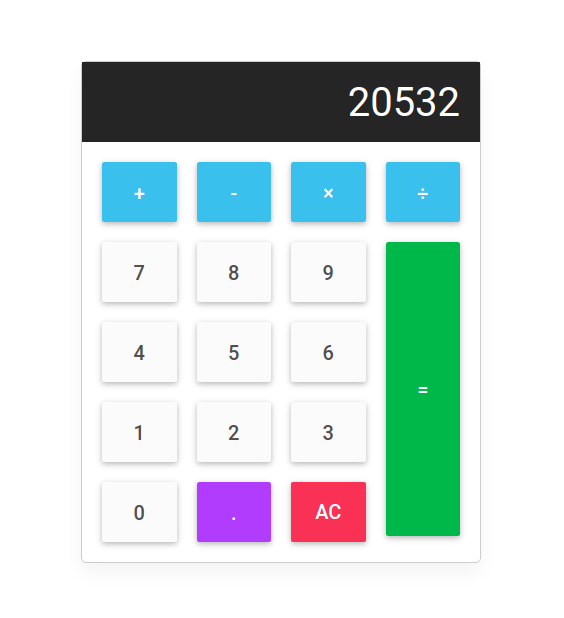
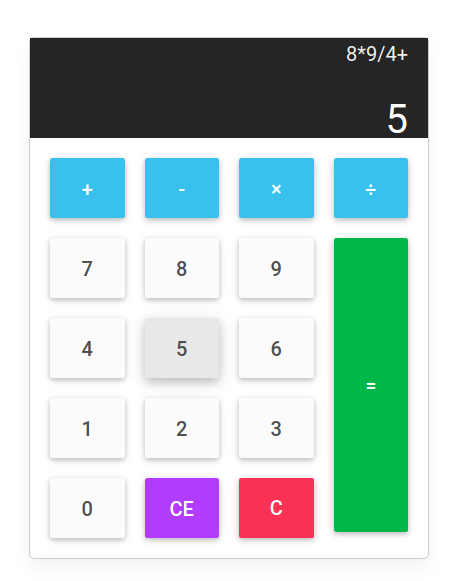
Enhancing Calculator

diff --git a/15- Material Calculator.html b/15- Material Calculator.html
@@ -1,26 +1,18 @@
 <!DOCTYPE html>
 <html lang="en">
+
 <head>
   <title>Material Calculator</title>
   <meta charset="utf-8">
   <meta name="viewport" content="width=device-width, initial-scale=1">
-  <link
-    href="https://cdnjs.cloudflare.com/ajax/libs/font-awesome/5.15.1/css/all.min.css"
-    rel="stylesheet"
-  />
-  <link
-    href="https://fonts.googleapis.com/css?family=Roboto:300,400,500,700&display=swap"
-    rel="stylesheet"
-  />
+  <link href="https://cdnjs.cloudflare.com/ajax/libs/font-awesome/5.15.1/css/all.min.css" rel="stylesheet" />
+  <link href="https://fonts.googleapis.com/css?family=Roboto:300,400,500,700&display=swap" rel="stylesheet" />
   <!-- Using Material Design Bootstrap -->
   <!-- Instead of regular bootstrap -->
 
-  <link
-    href="https://cdnjs.cloudflare.com/ajax/libs/mdb-ui-kit/3.6.0/mdb.min.css"
-    rel="stylesheet"
-  />
+  <link href="https://cdnjs.cloudflare.com/ajax/libs/mdb-ui-kit/3.6.0/mdb.min.css" rel="stylesheet" />
   <style>
- html {
+    html {
       font-size: 62.5%;
       box-sizing: border-box;
     }
@@ -43,9 +35,21 @@
       width: 400px;
     }
 
-    .calculator-screen {
+    .calculator-history {
       width: 100%;
-      height: 80px;
+      height: 50px;
+      border: none;
+      background-color: #252525;
+      color: rgb(240, 240, 240);
+      text-align: right;
+      padding-right: 20px;
+      padding-left: 10px;
+      font-size: 2rem;
+    }
+
+    .calculator-result {
+      width: 100%;
+      height: 50px;
       border: none;
       background-color: #252525;
       color: #fff;
@@ -57,7 +61,7 @@
 
     button {
       height: 60px;
-      font-size: 2rem!important;
+      font-size: 2rem !important;
     }
 
     .equal-sign {
@@ -73,150 +77,151 @@
     }
   </style>
 </head>
+
 <body>
   <div class="calculator card">
 
-    <input type="text" class="calculator-screen z-depth-1" value="" disabled />
+    <div class="calculator-history z-depth-1">8x8</div>
+    <div class="calculator-result z-depth-1">64</div>
 
     <div class="calculator-keys">
 
-      <button type="button" class="operator btn btn-info" value="+">+</button>
-      <button type="button" class="operator btn btn-info" value="-">-</button>
-      <button type="button" class="operator btn btn-info" value="*">&times;</button>
-      <button type="button" class="operator btn btn-info" value="/">&divide;</button>
+      <button type="button" id="+" class="operator btn btn-info">+</button>
+      <button type="button" id="-" class="operator btn btn-info">-</button>
+      <button type="button" id="*" class="operator btn btn-info">&times;</button>
+      <button type="button" id="/" class="operator btn btn-info">&divide;</button>
 
-      <button type="button" value="7" class="btn btn-light waves-effect">7</button>
-      <button type="button" value="8" class="btn btn-light waves-effect">8</button>
-      <button type="button" value="9" class="btn btn-light waves-effect">9</button>
-
-
-      <button type="button" value="4" class="btn btn-light waves-effect">4</button>
-      <button type="button" value="5" class="btn btn-light waves-effect">5</button>
-      <button type="button" value="6" class="btn btn-light waves-effect">6</button>
+      <button type="button" id="7" class="number btn btn-light waves-effect">7</button>
+      <button type="button" id="8" class="number btn btn-light waves-effect">8</button>
+      <button type="button" id="9" class="number btn btn-light waves-effect">9</button>
 
 
-      <button type="button" value="1" class="btn btn-light waves-effect">1</button>
-      <button type="button" value="2" class="btn btn-light waves-effect">2</button>
-      <button type="button" value="3" class="btn btn-light waves-effect">3</button>
+      <button type="button" id="4" class="number btn btn-light waves-effect">4</button>
+      <button type="button" id="5" class="number btn btn-light waves-effect">5</button>
+      <button type="button" id="6" class="number btn btn-light waves-effect">6</button>
 
 
-      <button type="button" value="0" class="btn btn-light waves-effect">0</button>
-      <button type="button" class="decimal function btn btn-secondary" value=".">.</button>
-      <button type="button" class="all-clear function btn btn-danger btn-sm" value="all-clear">AC</button>
+      <button type="button" id="1" class="number btn btn-light waves-effect">1</button>
+      <button type="button" id="2" class="number btn btn-light waves-effect">2</button>
+      <button type="button" id="3" class="number btn btn-light waves-effect">3</button>
 
-      <button type="button" class="equal-sign btn-success operator btn" value="=">=</button>
+      <button type="button" id="0" class="number btn btn-light waves-effect">0</button>
+
+      <button type="button" id="CE" class="backspace function btn btn-secondary">CE</button>
+      <button type="button" id="C" class="clear function btn btn-danger btn-sm">C</button>
+      <button type="button" id="=" class="equal-sign operator btn-success btn">=</button>
 
     </div>
   </div>
 
 </body>
-  <script
-    type="text/javascript"
-    src="https://cdnjs.cloudflare.com/ajax/libs/mdb-ui-kit/3.6.0/mdb.min.js"
-  ></script>
-  <script>
+<script type="text/javascript" src="https://cdnjs.cloudflare.com/ajax/libs/mdb-ui-kit/3.6.0/mdb.min.js"></script>
+<script>
 
+  class Calculator {
+    constructor() { }
+    static obj = new Calculator();
 
-    const calculator = {
-  displayValue: '0',
-  firstOperand: null,
-  waitingForSecondOperand: false,
-  operator: null,
-};
+    setHistory(expression) {
+      document.getElementsByClassName("calculator-history")[0].innerHTML = expression;
+    }
 
-function inputDigit(digit) {
-  const { displayValue, waitingForSecondOperand } = calculator;
+    setResult(result) {
+      if (result == "") {
+        document.getElementsByClassName("calculator-result")[0].innerHTML = result;
+      }
+      else {
+        document.getElementsByClassName("calculator-result")[0].innerHTML = obj.getFormattedNumber(result);
+      }
+    }
 
-  if (waitingForSecondOperand === true) {
-    calculator.displayValue = digit;
-    calculator.waitingForSecondOperand = false;
-  } else {
-    calculator.displayValue = displayValue === '0' ? digit : displayValue + digit;
-  }
-}
+    getHistory() {
+      return document.getElementsByClassName("calculator-history")[0].innerHTML;
+    }
 
-function inputDecimal(dot) {
-  if (!calculator.displayValue.includes(dot)) {
-    calculator.displayValue += dot;
-  }
-}
+    getResult() {
+      return document.getElementsByClassName("calculator-result")[0].innerHTML;
+    }
 
-function handleOperator(nextOperator) {
-  const { firstOperand, displayValue, operator } = calculator
-  const inputValue = parseFloat(displayValue);
+    getFormattedNumber(num) {
+      if (num == "-") {
+        return "";
+      }
+      var n = Number(num);
+      return n.toLocaleString("en");
+    }
 
-  if (operator && calculator.waitingForSecondOperand)  {
-    calculator.operator = nextOperator;
-    return;
-  }
+    reverseNumberFormat(num) {
+      return Number(num.replace(/,/g, ''));
+    }
+    functionListenerEvents() {
+      const functions = document.getElementsByClassName("function");
+      for (let i = 0; i < functions.length; i++) {
+        functions[i].addEventListener('click', function () {
+          if (this.id == "C") {
+            obj.setHistory("");
+            obj.setResult("");
+          }
+          else if (this.id == "CE") {
+            var output = obj.reverseNumberFormat(obj.getResult()).toString();
+            if (output) {
+              output = output.substr(0, output.length - 1);
+              obj.setResult(output);
+            }
+          }
+        });
+      }
+    }
 
-  if (firstOperand == null) {
-    calculator.firstOperand = inputValue;
-  } else if (operator) {
-    const currentValue = firstOperand || 0;
-    const result = performCalculation[operator](currentValue, inputValue);
+    operatorListenerEvents() {
+      const operator = document.getElementsByClassName("operator");
+      for (let i = 0; i < operator.length; i++) {
+        operator[i].addEventListener('click', function () {
+          var output = obj.getResult();
+          var history = obj.getHistory();
+          if (output == "" && history != "") {
+            if (isNaN(history[history.length - 1])) {
+              history = history.substr(0, history.length - 1);
+            }
+          }
+          if (output != "" || history != "") {
+            output = output == "" ? output : obj.reverseNumberFormat(output);
+            history += output;
+            if (this.id == "=") {
+              var result = eval(history);
+              obj.setResult(result);
+              obj.setHistory("");
+            }
+            else {
+              history += this.id;
+              obj.setResult("");
+              obj.setHistory(history);
+            }
+          }
+        });
+      }
+    }
 
-    calculator.displayValue = String(result);
-    calculator.firstOperand = result;
-  }
+    numberListenerEvents() {
+      const number = document.getElementsByClassName("number");
+      for (let i = 0; i < number.length; i++) {
+        number[i].addEventListener('click', function () {
+          var output = obj.reverseNumberFormat(obj.getResult());
+          if (output != NaN) {
+            output += this.id;
+            obj.setResult(output);
+          }
+        });
+      }
+    }
 
-  calculator.waitingForSecondOperand = true;
-  calculator.operator = nextOperator;
-}
-
-const performCalculation = {
-  '/': (firstOperand, secondOperand) => firstOperand / secondOperand,
-
-  '*': (firstOperand, secondOperand) => firstOperand * secondOperand,
-
-  '+': (firstOperand, secondOperand) => firstOperand + secondOperand,
-
-  '-': (firstOperand, secondOperand) => firstOperand - secondOperand,
-
-  '=': (firstOperand, secondOperand) => secondOperand
-};
-
-function resetCalculator() {
-  calculator.displayValue = '0';
-  calculator.firstOperand = null;
-  calculator.waitingForSecondOperand = false;
-  calculator.operator = null;
-}
-
-function updateDisplay() {
-  const display = document.querySelector('.calculator-screen');
-  display.value = calculator.displayValue;
-}
-
-updateDisplay();
-
-const keys = document.querySelector('.calculator-keys');
-keys.addEventListener('click', (event) => {
-  const { target } = event;
-  if (!target.matches('button')) {
-    return;
-  }
-
-  if (target.classList.contains('operator')) {
-    handleOperator(target.value);
-		updateDisplay();
-    return;
-  }
-
-  if (target.classList.contains('decimal')) {
-    inputDecimal(target.value);
-		updateDisplay();
-    return;
-  }
-
-  if (target.classList.contains('all-clear')) {
-    resetCalculator();
-		updateDisplay();
-    return;
   }
 
-  inputDigit(target.value);
-  updateDisplay();
-});
-  </script>
+  var obj = new Calculator();
+  obj.numberListenerEvents();
+  obj.operatorListenerEvents();
+  obj.functionListenerEvents();
+
+</script>
+
 </html>
